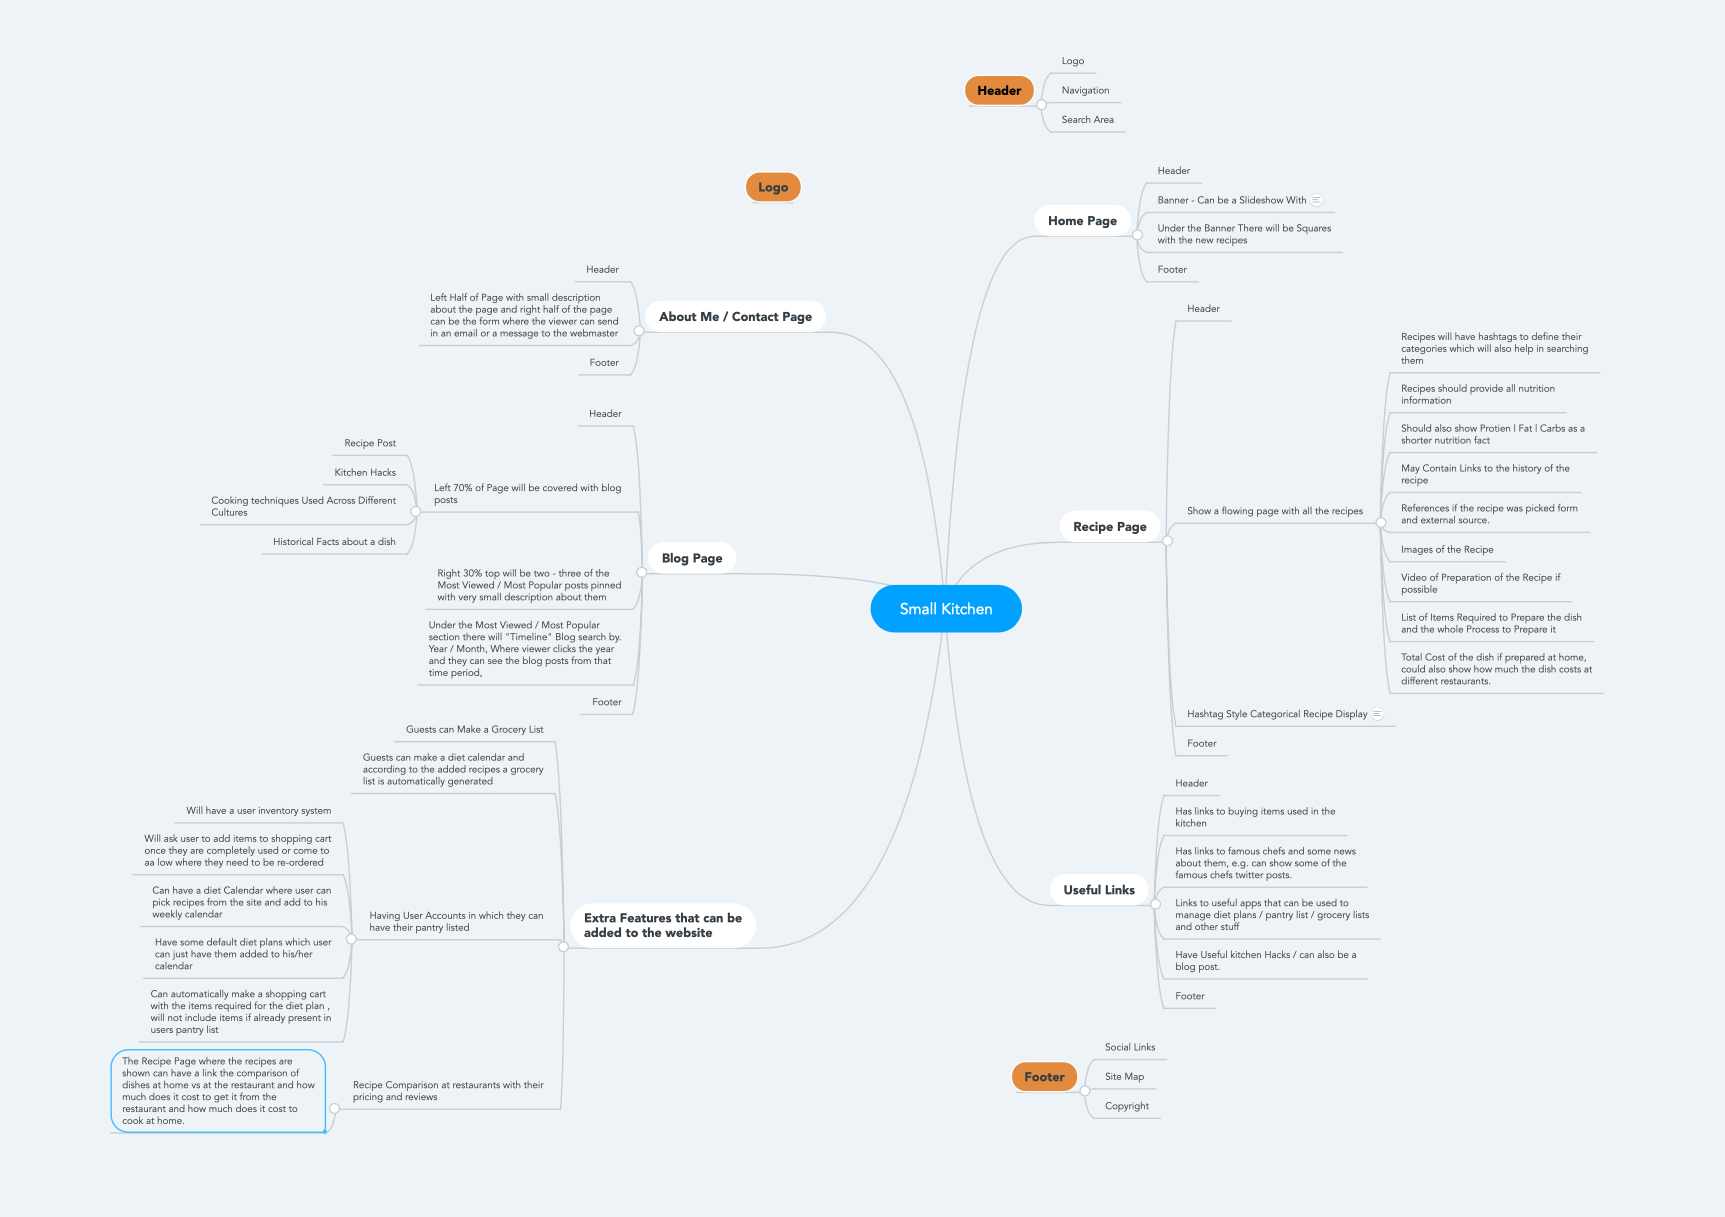
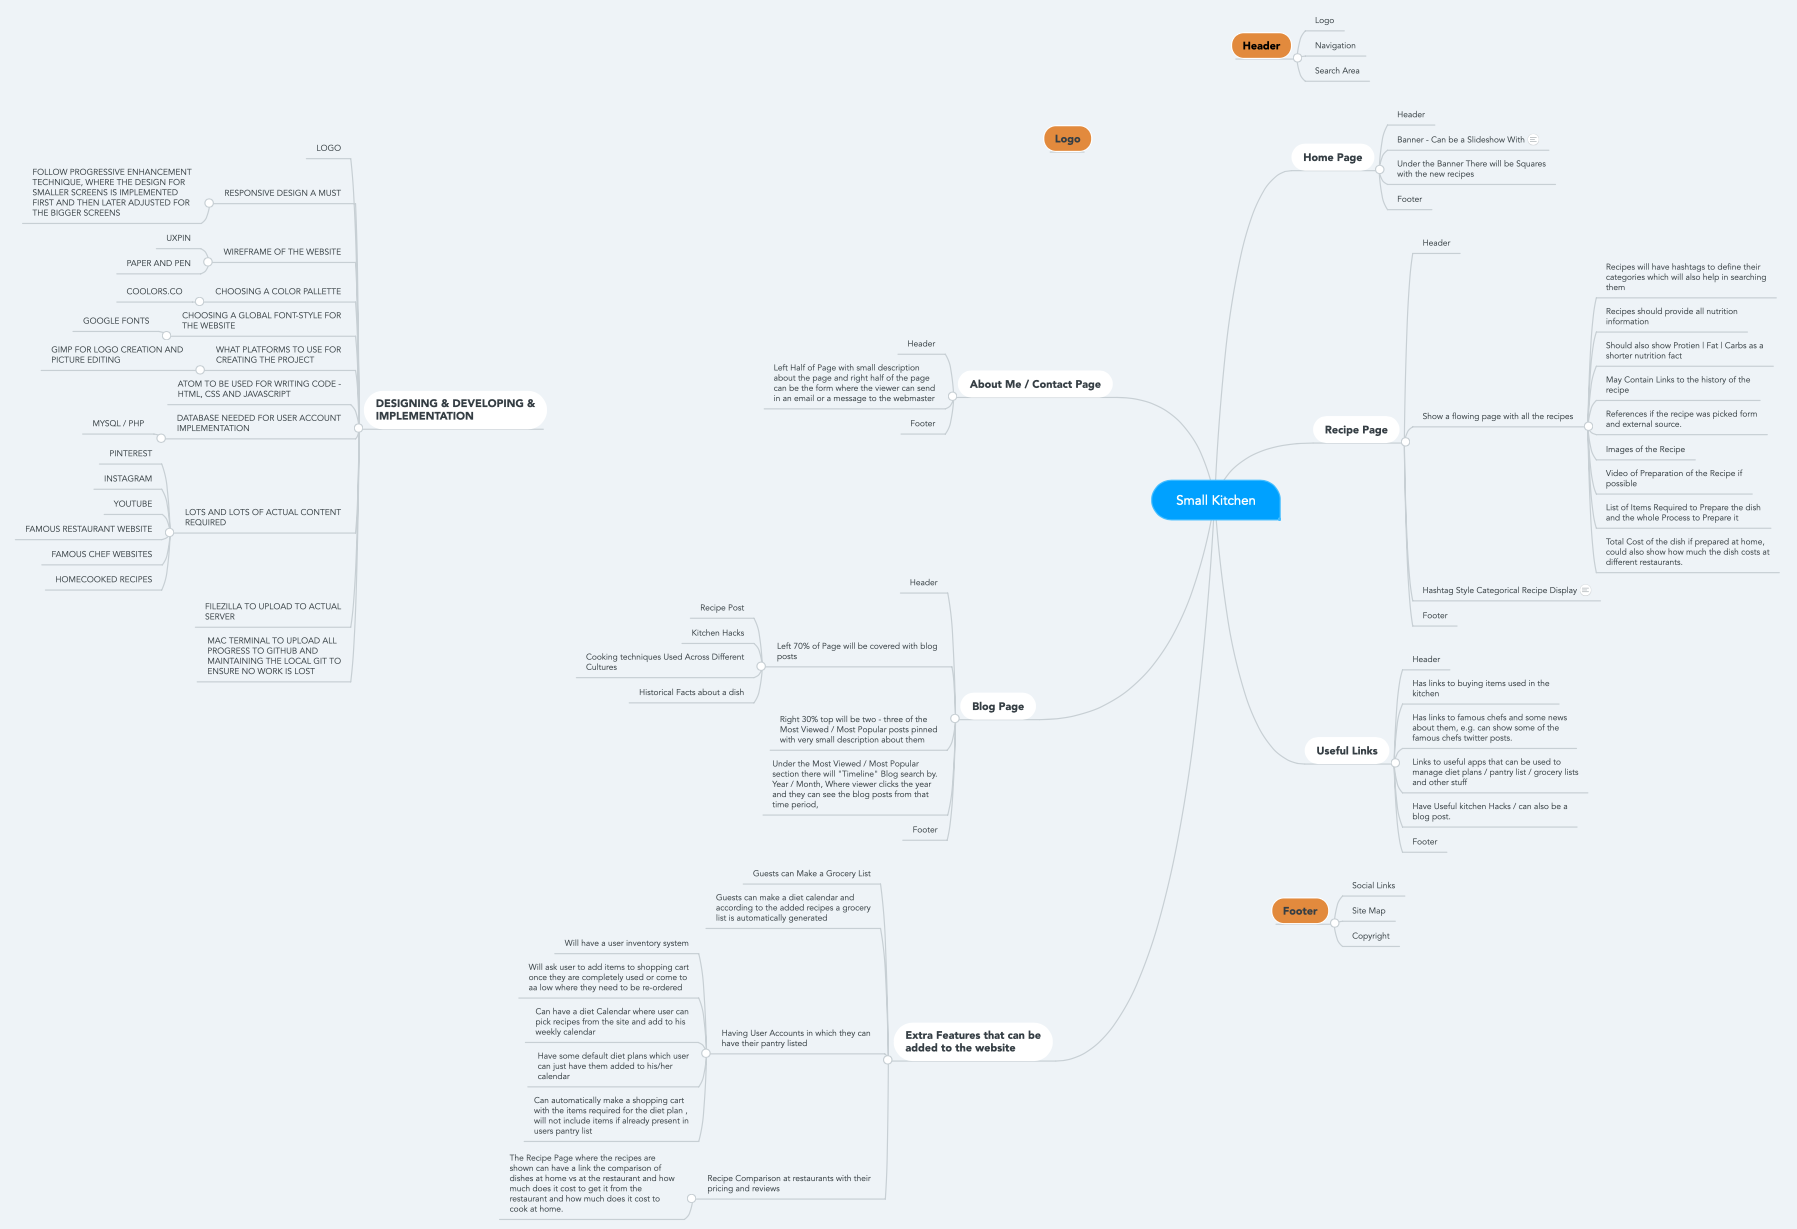
Updated the Visual Mind Map and the rtf file representing it.

diff --git a/index.html b/index.html
@@ -1,0 +1,29 @@
+<!DOCTYPE html>
+<html lang="en">
+  <head>
+    <meta charset="utf-8">
+    <meta name="viewport" content="width=device-width">
+    <meta name="author" content="Ramanpreet S Aujla">
+    <meta name="keywords" content="Recipes, Small Kitchen, Traditional Recipes, Cookbook, Diet Calendar, Diet Plans, Recipe Preparatioin">
+
+    <title>Small Kitchen | Home Page</title>
+
+    <link rel="stylesheet" href="css/main.css" type="text/css">
+
+  </head>
+  <body>
+
+    <header>
+
+    </header>
+
+    <main>
+
+    </main>
+
+    <footer>
+
+    </footer>
+
+  </body>
+</html>
